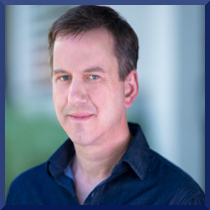
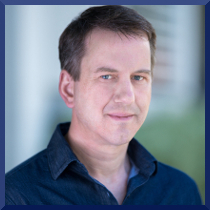
Fixed my stretched out face, removed duplicate from email service, fixed the account page, which has some issues, set the curret link for the Mental Health Resrouces link in the header.

diff --git a/r01/src/main/resources/templates/fragment/common.html b/r01/src/main/resources/templates/fragment/common.html
@@ -334,7 +334,7 @@
                     <li><a th:href="@{/public/about}">About</a></li>
                     <li><a th:href="@{/public/faq}">FAQ</a></li>
                     <li><a th:href="@{/public/researchSupport}">The&nbsp;Science&nbsp;of&nbsp;MindTrails</a></li>
-                    <li><a target="new" href="https://implicit.harvard.edu/implicit/user/pimh/linkinfo.html">Mental&nbsp;Health&nbsp;Resources</a>
+                    <li><a th:href="@{/public/resources}">Mental&nbsp;Health&nbsp;Resources</a>
                     </li>
                     <li><a th:href="@{/public/contact}">Contact&nbsp;Us</a></li>
                     <li><a th:href="@{/public/team}">Meet&nbsp;the&nbsp;Team</a></li>

diff --git a/core/src/main/resources/templates/fragment/account.html b/core/src/main/resources/templates/fragment/account.html
@@ -1,15 +1,15 @@
-<html>
+/<html>
 <body>
 
 
 <form name="f" class="form-horizontal" th:action="@{/account/create}" method="post" th:object="${participantForm}"
       th:fragment="create">:
+        <ul>
             <li th:each="err : ${#fields.errors('*')}" th:text="${err}" class="alert-error">
                 Input is incorrect
             </li>
         </ul>
         <div class="spacer-20px"></div>
-    </div>
 
     <div th:fragment="editable">
 

diff --git a/core/src/main/java/org/mindtrails/service/EmailServiceImpl.java b/core/src/main/java/org/mindtrails/service/EmailServiceImpl.java
@@ -77,7 +77,6 @@ public class EmailServiceImpl implements EmailService {
         emails.add(new Email("midSessionStop", "Incomplete Session Notice from the MindTrails Project Team"));
         emails.add(new Email("closure", "Closure of Account in the Calm Thinking Study"));
         emails.add(new Email("debrief", "Explanation of the Calm Thinking Study"));
-        emails.add(new Email("midSessionStop", "Incomplete Session Notice from the MindTrails Project Team"));
         return  emails;
     }
 
